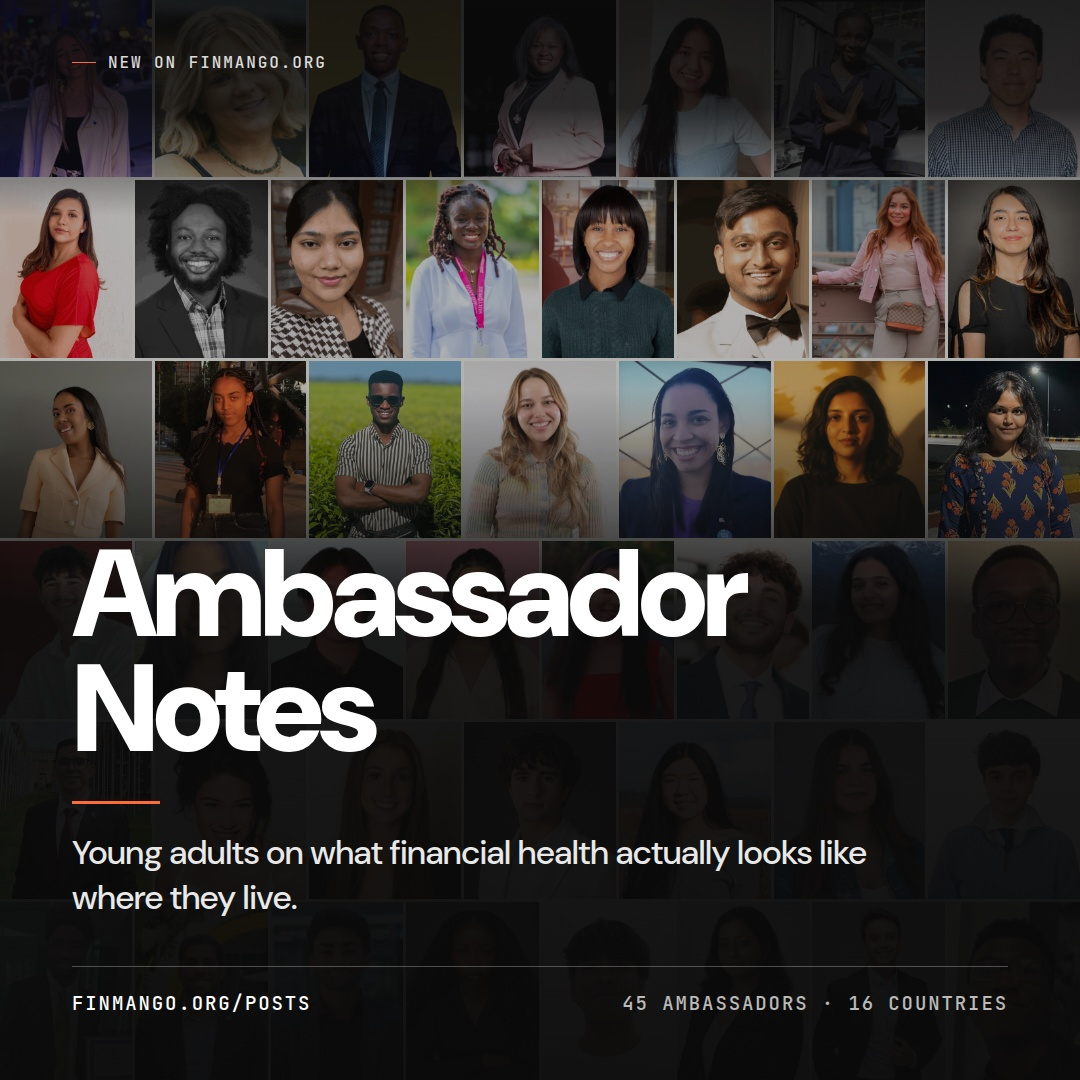
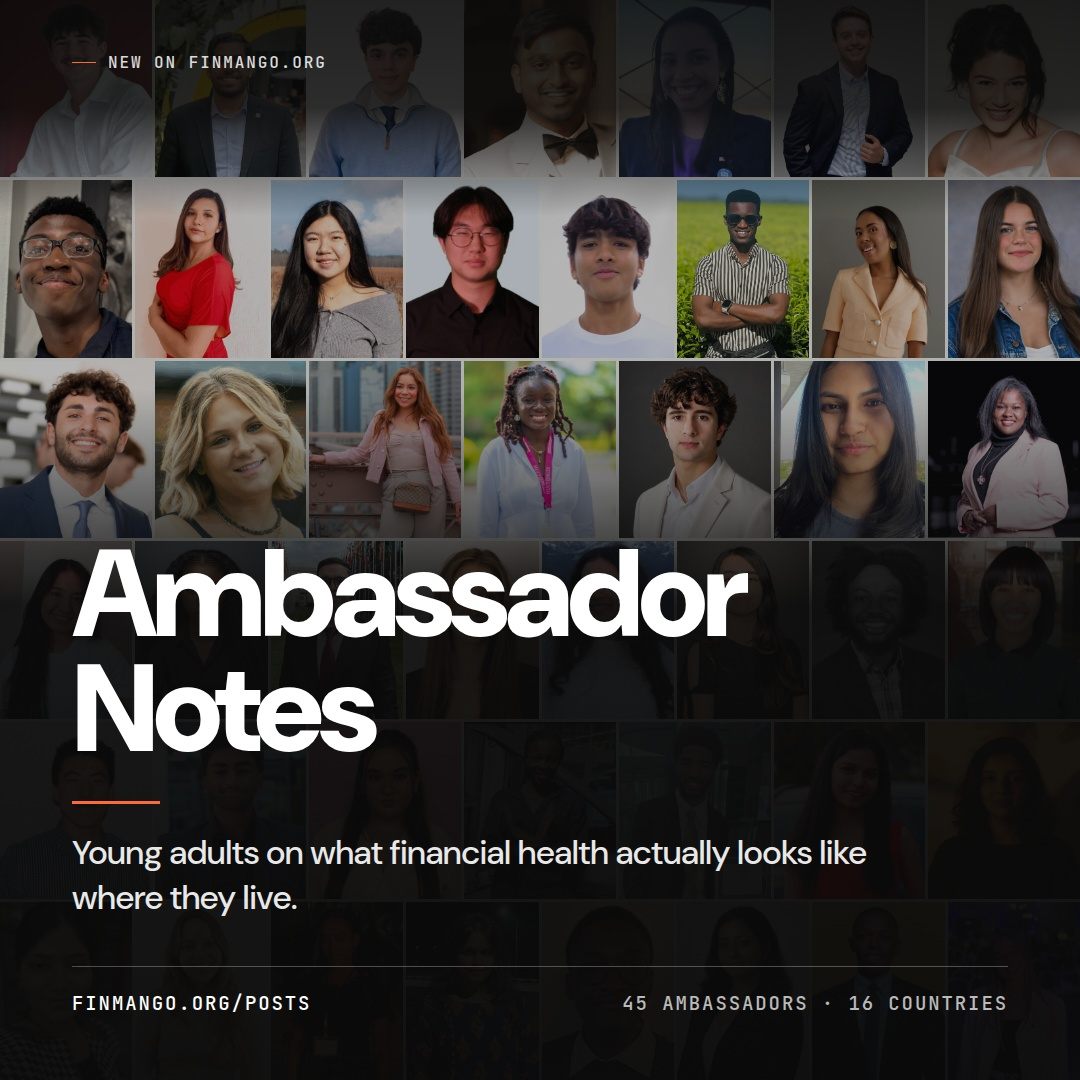
Shuffle the mosaics instead of running them chronologically
Chronological order grouped each cohort, which also grouped its
photography — the 2023 studio headshots clumped together, the newer phone
shots clumped elsewhere — leaving visible bands of dark or pale tiles. A
seeded shuffle spreads backgrounds, framing and tone across the grid.

The shuffle is seeded (mulberry32, seed 7) rather than random, so a
re-render reproduces the same image. ?seed=N compares arrangements and
?order=chrono restores the old sequence; the renderer takes --seed=N and
--out-dir=DIR so a sweep does not overwrite the committed files.

Claude-Session: https://claude.ai/code/session_01RVZdfnNYPxcr1Qs5hkjNHT

diff --git a/scripts/ambassador-collage-template.html b/scripts/ambassador-collage-template.html
@@ -190,8 +190,9 @@
     }
 
     /* ==================== MOSAICS (no type, faces only) ====================
-       45 photographs, edge to edge, chronological so the founding cohort
-       leads. --gap is the only seam; set it to 0 for a seamless block. */
+       45 photographs, edge to edge, in a seeded shuffle so no cohort's
+       photography clumps. --gap is the only seam; set it to 0 for a
+       seamless block. */
     .mosaic { --gap: 3px; background: var(--paper); display: flex; flex-direction: column; gap: var(--gap); }
     .mosaic .tile { border: 0; flex: 1 1 0; min-width: 0; }
     .mosaic .row { display: flex; gap: var(--gap); }
@@ -445,22 +446,55 @@
       </section>`;
   }).join('');
 
-  // Both mosaics run oldest cohort first, so they read as growth.
-  const CHRONOLOGICAL = [...AMBASSADORS].reverse();
+  // Chronological order groups each cohort together, which also groups its
+  // photography — the 2023 studio headshots clump, the 2026 phone shots
+  // clump — so the mosaics shuffle instead. The shuffle is seeded rather
+  // than random so a re-render reproduces the image exactly. Override with
+  // ?seed=N to compare arrangements, or ?order=chrono for the plain
+  // oldest-first sequence.
+  const SHUFFLE_SEED = 7;
+
+  const params = new URLSearchParams(location.search);
+  const seed = Number(params.get('seed') ?? SHUFFLE_SEED);
+  const chronological = [...AMBASSADORS].reverse();
+
+  // mulberry32 — small, fast, and identical across browsers for a given seed.
+  function mulberry32(a) {
+    return function () {
+      a = (a + 0x6D2B79F5) | 0;
+      let t = Math.imul(a ^ (a >>> 15), 1 | a);
+      t = (t + Math.imul(t ^ (t >>> 7), 61 | t)) ^ t;
+      return ((t ^ (t >>> 14)) >>> 0) / 4294967296;
+    };
+  }
+
+  function seededShuffle(list, s) {
+    const rand = mulberry32(s);
+    const out = [...list];
+    for (let i = out.length - 1; i > 0; i--) {
+      const j = Math.floor(rand() * (i + 1));
+      [out[i], out[j]] = [out[j], out[i]];
+    }
+    return out;
+  }
+
+  const MOSAIC_ORDER = params.get('order') === 'chrono'
+    ? chronological
+    : seededShuffle(chronological, seed);
 
   // Rows of 7 and 8, alternating, sum to 45 across six full-bleed rows.
   const SQUARE_ROWS = [7, 8, 7, 8, 7, 8];
   let cursor = 0;
   const squareHTML = SQUARE_ROWS.map(n => {
-    const row = CHRONOLOGICAL.slice(cursor, cursor + n);
+    const row = MOSAIC_ORDER.slice(cursor, cursor + n);
     cursor += n;
     return `<div class="row">${row.map(a => tile(a, false)).join('')}</div>`;
   }).join('');
-  if (cursor !== CHRONOLOGICAL.length) {
-    throw new Error(`SQUARE_ROWS covers ${cursor} of ${CHRONOLOGICAL.length} ambassadors`);
+  if (cursor !== MOSAIC_ORDER.length) {
+    throw new Error(`SQUARE_ROWS covers ${cursor} of ${MOSAIC_ORDER.length} ambassadors`);
   }
 
-  const storyHTML = CHRONOLOGICAL.map(a => tile(a, false)).join('');
+  const storyHTML = MOSAIC_ORDER.map(a => tile(a, false)).join('');
 
   // Every mosaic — bare or under an announcement scrim — paints from here.
   const MOSAIC_HTML = { square: squareHTML, story: storyHTML };

diff --git a/scripts/render-ambassador-collage.js b/scripts/render-ambassador-collage.js
@@ -9,8 +9,11 @@
 //
 // Fonts and photos are local, so no network access is needed.
 //
-// Usage: node scripts/render-ambassador-collage.js [target]
-//   (no argument renders everything except the poster)
+// Usage: node scripts/render-ambassador-collage.js [target] [--seed=N] [--out-dir=DIR]
+//   (no target renders everything except the poster)
+//   --seed overrides the template's mosaic shuffle, for comparing
+//   arrangements; --out-dir writes elsewhere so a sweep does not clobber
+//   the committed images. Output names gain a -sN suffix when seeded.
 const path = require('path');
 const fs = require('fs');
 
@@ -37,7 +40,10 @@ const TARGETS = {
 // The captioned poster is opt-in; a bare run makes the mosaics and promos.
 const DEFAULT_TARGETS = ['square', 'story', 'notes-square', 'notes-story'];
 
-const which = process.argv[2];
+const args = process.argv.slice(2);
+const seed = (args.find(a => a.startsWith('--seed=')) || '').split('=')[1];
+const outDir = (args.find(a => a.startsWith('--out-dir=')) || '').split('=')[1];
+const which = args.find(a => !a.startsWith('--'));
 if (which && !TARGETS[which]) {
   console.error(`Unknown target "${which}". Known: ${Object.keys(TARGETS).join(', ')}.`);
   process.exit(1);
@@ -67,7 +73,7 @@ function findChrome() {
     const { selector, output, scale, type, quality } = TARGETS[name];
     const page = await browser.newPage();
     await page.setViewport({ width: 1800, height: 1200, deviceScaleFactor: scale });
-    await page.goto('file://' + TEMPLATE, { waitUntil: 'networkidle0' });
+    await page.goto('file://' + TEMPLATE + (seed ? `?seed=${encodeURIComponent(seed)}` : ''), { waitUntil: 'networkidle0' });
     await page.evaluate(() => document.fonts.ready);
     // Every photo must be decoded before the capture, or tiles come out blank.
     await page.evaluate(() => Promise.all(
@@ -80,12 +86,13 @@ function findChrome() {
     const el = await page.$(selector);
     if (!el) throw new Error(`Template is missing ${selector}`);
     const box = await el.boundingBox();
-    const outPath = path.join(ROOT, output);
+    const named = seed ? output.replace(/\.(jpg|png)$/, `-s${seed}.$1`) : output;
+    const outPath = path.join(outDir ? path.resolve(outDir) : ROOT, named);
     await el.screenshot({ path: outPath, type, quality, captureBeyondViewport: true });
     await page.close();
 
     const kb = Math.round(fs.statSync(outPath).size / 1024);
-    console.log(`Wrote ${output} (${Math.round(box.width)}x${Math.round(box.height)} @${scale}x, ${kb}KB)`);
+    console.log(`Wrote ${named} (${Math.round(box.width)}x${Math.round(box.height)} @${scale}x, ${kb}KB)`);
   }
 
   await browser.close();
